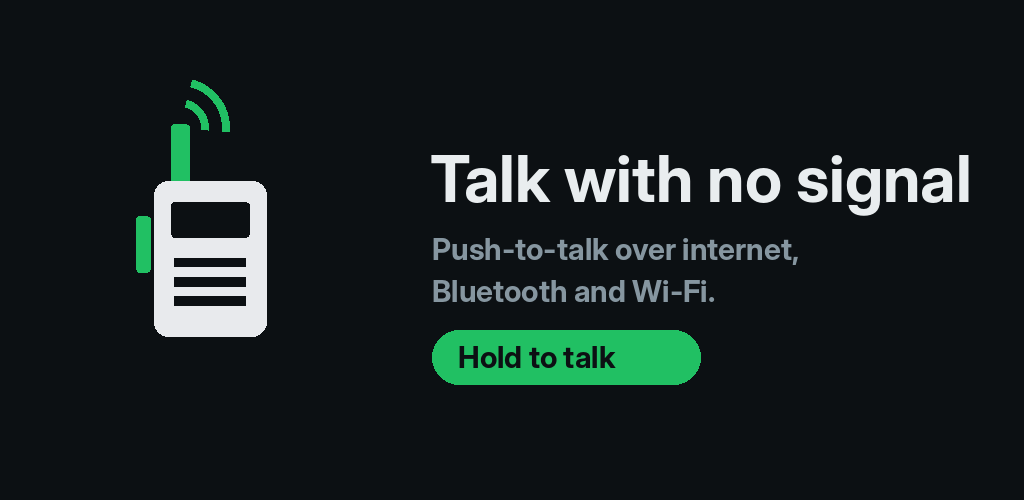
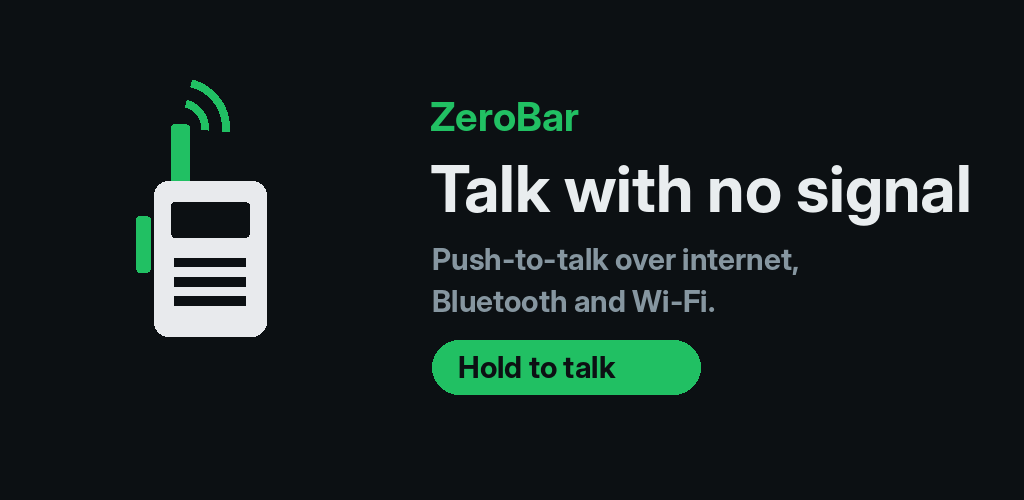
Rename the app to ZeroBar for the Play Store
App name, screens, notifications, widget, store listing, privacy policy
and feature graphic now say ZeroBar. Play Store ID app.zerobar.ptt.
Network identifiers are unchanged so it still talks to earlier builds.

Claude-Session: https://claude.ai/code/session_01KNVwiZceyAopGibWBzwb8z

diff --git a/walkie-talkie/app/src/main/java/app/pttradio/ui/Chats.kt b/walkie-talkie/app/src/main/java/app/pttradio/ui/Chats.kt
@@ -141,7 +141,7 @@ fun Home(
                 Text("New group", Modifier.clip(RoundedCornerShape(18.dp)).clickable { naming = true }.padding(horizontal = 10.dp, vertical = 8.dp), color = C.accent, fontSize = 15.sp, fontWeight = FontWeight.SemiBold)
             }
         } else Row(Modifier.fillMaxWidth().height(60.dp).padding(start = 18.dp, end = 4.dp), verticalAlignment = Alignment.CenterVertically) {
-            Text("PTT Radio", Modifier.weight(1f), color = C.text, fontSize = 24.sp, fontWeight = FontWeight.Bold)
+            Text("ZeroBar", Modifier.weight(1f), color = C.text, fontSize = 24.sp, fontWeight = FontWeight.Bold)
             Text("SOS", Modifier.clip(RoundedCornerShape(16.dp)).background(if (sending != null) C.red else Color(0x26FF4B3E)).clickable { sosMenu = true }
                 .padding(horizontal = 12.dp, vertical = 6.dp), color = if (sending != null) Color.White else C.red, fontSize = 13.sp, fontWeight = FontWeight.Bold)
             Spacer(Modifier.width(10.dp))
@@ -227,7 +227,7 @@ fun Home(
 
     // ---------------------------------------------------------------- sheets
     if (sosMenu) Sheet("Emergency message", { sosMenu = false }) {
-        Body("Sent over Bluetooth to phones with PTT Radio in range, with no connection needed, and passed on by those phones. " +
+        Body("Sent over Bluetooth to phones with ZeroBar in range, with no connection needed, and passed on by those phones. " +
             "Shown to your contacts only, unless you allow anyone in Settings. Your GPS position is included. With internet it also goes to your groups.",
             color = C.dim, size = 13.sp)
         Column(Modifier.heightIn(max = 380.dp).verticalScroll(rememberScrollState()), verticalArrangement = Arrangement.spacedBy(8.dp)) {
@@ -240,7 +240,7 @@ fun Home(
             Spacer(Modifier.width(14.dp))
             Body("New group", weight = FontWeight.SemiBold)
         }
-        Label("On PTT Radio now", Modifier.padding(top = 4.dp))
+        Label("On ZeroBar now", Modifier.padding(top = 4.dp))
         val people = onAppNow(s, now)
         if (people.isEmpty()) Body("Nobody else is on the app right now.", color = C.dim, size = 13.sp)
         Column(Modifier.heightIn(max = 340.dp).verticalScroll(rememberScrollState())) {
@@ -420,7 +420,7 @@ private fun ChatList(
             }
         }
         if (people.isNotEmpty()) {
-            item { Text("On PTT Radio now", Modifier.padding(start = 18.dp, top = 14.dp, bottom = 4.dp), color = C.dim, fontSize = 13.sp, fontWeight = FontWeight.Medium) }
+            item { Text("On ZeroBar now", Modifier.padding(start = 18.dp, top = 14.dp, bottom = 4.dp), color = C.dim, fontSize = 13.sp, fontWeight = FontWeight.Medium) }
             items(people, key = { "p" + it.id }) { u -> PersonRow(u, s, near, now, u.id in sel, true, { onPerson(u) }, { onPersonLong(u) }) }
         }
         item { Spacer(Modifier.height(90.dp)) }
@@ -501,7 +501,7 @@ fun ChatPicker(s: RadioState, near: NearbyInfo, now: Long, onChat: (Group) -> Un
         }
         val people = onAppNow(s, now).filter { it.id !in withChat }
         if (people.isNotEmpty()) {
-            item { Text("On PTT Radio now", Modifier.padding(start = 18.dp, top = 14.dp, bottom = 4.dp), color = C.dim, fontSize = 13.sp) }
+            item { Text("On ZeroBar now", Modifier.padding(start = 18.dp, top = 14.dp, bottom = 4.dp), color = C.dim, fontSize = 13.sp) }
             items(people, key = { "p" + it.id }) { u -> PersonRow(u, s, near, now, false, false, { onPerson(u) }, {}) }
         }
     }

diff --git a/walkie-talkie/app/src/main/java/app/pttradio/ui/Screens.kt b/walkie-talkie/app/src/main/java/app/pttradio/ui/Screens.kt
@@ -146,7 +146,7 @@ fun Welcome(a: Actions, login: Boolean) {
     var error by remember { mutableStateOf<String?>(null) }
     val emailOk = Regex("^[^@\\s]+@[^@\\s]+\\.[^@\\s]{2,}$").matches(email.trim())
     Column(Modifier.fillMaxSize().verticalScroll(rememberScrollState()).padding(28.dp), verticalArrangement = Arrangement.Center) {
-        Text("Welcome to PTT Radio", color = C.text, fontSize = 26.sp, fontWeight = FontWeight.Bold)
+        Text("Welcome to ZeroBar", color = C.text, fontSize = 26.sp, fontWeight = FontWeight.Bold)
         Spacer(Modifier.height(8.dp))
         Body("Hold to talk with your people, over internet or straight phone-to-phone when there is none.", color = C.dim)
         Spacer(Modifier.height(28.dp))
@@ -274,7 +274,7 @@ fun SettingsScreen(s: RadioState, p: Perms, mode: String, server: String, btn: B
                         Btn("Change") { a.learnKey() }
                     }
                 }
-                Body("Hold the button to talk, release to mute, while PTT Radio is open on screen. Android does not let any app take over the power button; volume keys and programmable side keys work.", color = C.dim, size = 12.sp)
+                Body("Hold the button to talk, release to mute, while ZeroBar is open on screen. Android does not let any app take over the power button; volume keys and programmable side keys work.", color = C.dim, size = 12.sp)
                 if (btn.key != 0) {
                     Label("Button talks on", Modifier.padding(top = 6.dp))
                     Column(Modifier.fillMaxWidth().clip(RoundedCornerShape(6.dp)).border(1.dp, C.line, RoundedCornerShape(6.dp)).background(C.panel)) {
@@ -316,7 +316,7 @@ fun SettingsScreen(s: RadioState, p: Perms, mode: String, server: String, btn: B
             }
             Section("Emergency (SOS) messages are shown to") {
                 Segments(listOf("c" to "My contacts", "a" to "Anyone nearby"), if (sosAnyone) "a" else "c", Modifier.fillMaxWidth()) { a.setSosAnyone(it == "a") }
-                Body(if (sosAnyone) "Every phone with PTT Radio in range shows your alert, including strangers who could help."
+                Body(if (sosAnyone) "Every phone with ZeroBar in range shows your alert, including strangers who could help."
                      else "Only people in your groups and chats see your alert. Other phones with the app still pass it on, without showing it, so it can reach a contact further away.",
                     color = C.dim, size = 12.sp)
             }

diff --git a/walkie-talkie/app/src/main/java/app/pttradio/ui/QuickTalk.kt b/walkie-talkie/app/src/main/java/app/pttradio/ui/QuickTalk.kt
@@ -181,7 +181,7 @@ class QuickTalkActivity : ComponentActivity() {
                         }
                         Dot(col); Spacer(Modifier.width(8.dp)); Label(text, color = C.text, size = 11.sp)
                     }
-                    if (g == null) Btn("Open PTT Radio", Modifier.fillMaxWidth(), primary = true) { startActivity(Intent(this@QuickTalkActivity, MainActivity::class.java)); finish() }
+                    if (g == null) Btn("Open ZeroBar", Modifier.fillMaxWidth(), primary = true) { startActivity(Intent(this@QuickTalkActivity, MainActivity::class.java)); finish() }
                     else PttKey(
                         s.transmitting, s.talker != null, Modifier.fillMaxWidth(), app.core.level, s.recording,
                         title = when { closing -> "MIC\nCLOSED"; s.recording -> "RECORDING"; s.transmitting -> "TALKING"; s.talker != null -> "LISTENING"; else -> "TAP\nTO TALK" },
@@ -255,7 +255,7 @@ class WidgetConfigActivity : ComponentActivity() {
                 Text("Widget for which chat?", Modifier.padding(start = 18.dp, top = 18.dp, bottom = 4.dp), color = C.text, fontSize = 20.sp, fontWeight = FontWeight.Bold)
                 Text("Tapping the widget starts talking to this group or person.", Modifier.padding(start = 18.dp, bottom = 10.dp), color = C.dim, fontSize = 13.sp)
                 if (s.groups.isEmpty() && onAppNow(s, now).isEmpty())
-                    Text("No chats yet. Open PTT Radio, start a chat, then add the widget again.", Modifier.padding(18.dp), color = C.dim, fontSize = 14.sp)
+                    Text("No chats yet. Open ZeroBar, start a chat, then add the widget again.", Modifier.padding(18.dp), color = C.dim, fontSize = 14.sp)
                 ChatPicker(s, near, now,
                     onChat = { g -> PttWidget.assign(this@WidgetConfigActivity, id, g.id); done(id) },
                     onPerson = { u -> app.core.openDirect(u.id, tune = false) { gid -> runOnUiThread { PttWidget.assign(this@WidgetConfigActivity, id, gid); done(id) } } })

diff --git a/walkie-talkie/app/src/main/java/app/pttradio/ui/MainActivity.kt b/walkie-talkie/app/src/main/java/app/pttradio/ui/MainActivity.kt
@@ -231,7 +231,7 @@ class MainActivity : ComponentActivity(), Actions {
 
     override fun addToHome(gid: String) {
         val ok = try { PttWidget.pin(this, gid) } catch (e: Exception) { false }
-        if (!ok) warning = "This home screen does not let apps place widgets. Long-press the home screen, choose Widgets, and add PTT Radio from there."
+        if (!ok) warning = "This home screen does not let apps place widgets. Long-press the home screen, choose Widgets, and add ZeroBar from there."
     }
 
     override fun sendSos(code: Int) {
@@ -262,7 +262,7 @@ class MainActivity : ComponentActivity(), Actions {
                 startActivity(Intent(Settings.ACTION_WIFI_ADD_NETWORKS).putParcelableArrayListExtra(Settings.EXTRA_WIFI_NETWORK_LIST, arrayListOf(sug)))
             } else {
                 getSystemService(android.net.wifi.WifiManager::class.java).addNetworkSuggestions(listOf(sug))
-                info = "Saved. Android may show a notification asking to allow networks suggested by PTT Radio: allow it."
+                info = "Saved. Android may show a notification asking to allow networks suggested by ZeroBar: allow it."
             }
         } catch (e: Exception) {
             info = "This phone could not save the network automatically. Open Wi-Fi settings and add \"$ssid\" with the password by hand."

diff --git a/walkie-talkie/app/src/main/java/app/pttradio/App.kt b/walkie-talkie/app/src/main/java/app/pttradio/App.kt
@@ -247,7 +247,7 @@ object Notifier {
     }
 
     fun standby(c: Context, text: String, gid: String? = null): Notification = Notification.Builder(c, STANDBY)
-        .setSmallIcon(R.drawable.ic_stat_radio).setContentTitle("PTT Radio").setContentText(text)
+        .setSmallIcon(R.drawable.ic_stat_radio).setContentTitle("ZeroBar").setContentText(text)
         .setOngoing(true).setOnlyAlertOnce(true).setContentIntent(open(c, 0))
         .apply { if (gid != null) addAction(talkAction(c, 2, gid, "Talk")) }.build()
 

diff --git a/walkie-talkie/app/src/main/java/app/pttradio/net/Sos.kt b/walkie-talkie/app/src/main/java/app/pttradio/net/Sos.kt
@@ -40,7 +40,7 @@ object SosCodes {
         "Stay where you are",
         "Follow me, moving on",
         "Low battery",
-        "Open PTT Radio, let's connect",
+        "Open ZeroBar, let's connect",
     )
     fun of(code: Int) = text.getOrElse(code) { "Alert" }
 }

diff --git a/walkie-talkie/play/README.md b/walkie-talkie/play/README.md
@@ -1,4 +1,4 @@
-# Publishing to Google Play (internal testing)
+# Publishing ZeroBar to Google Play (internal testing)
 
 Everything Play Console asks for, ready to paste. Files in this folder:
 
@@ -14,8 +14,8 @@ Everything Play Console asks for, ready to paste. Files in this folder:
 1. Create a developer account at <https://play.google.com/console/signup> (one-time fee of US $25, identity check).
 2. **Create app** → name, default language, *App*, *Free* → accept the declarations.
 
-The package name inside the bundle is `app.pttradio`. It becomes permanent with the first upload; the name shown in
-the store can be changed at any time.
+App name: **ZeroBar**. The package name inside the bundle is `app.zerobar.ptt`. It becomes permanent with the first
+upload; the name shown in the store can be changed at any time. Developer contact e-mail: ugoyel@gmail.com.
 
 ## 2. Internal testing (no review wait, up to 100 testers)
 
@@ -30,8 +30,8 @@ Personal developer accounts created after November 2023 must also run a closed t
 
 ## 3. App content (Policy → App content)
 
-- **Privacy policy:** put `privacy-policy.md` on a public page (Google Sites, GitHub Pages, your website), fill in
-  the contact e-mail, and paste the URL.
+- **Privacy policy:** put `privacy-policy.md` on a public page (Google Sites, GitHub Pages, your website) and paste
+  the URL.
 - **Ads:** No ads.
 - **App access:** All functionality is available without special access (no login).
 - **Content rating:** questionnaire → Communication app; users can interact and share location → typically rated
@@ -54,6 +54,10 @@ Personal developer accounts created after November 2023 must also run a closed t
   without it Android delays or drops incoming calls.
 
 ## 4. Store listing (Grow → Store presence → Main store listing)
+
+**App name (≤ 30 characters)**
+
+> ZeroBar: Offline Walkie Talkie
 
 **Short description (≤ 80 characters)**
 

diff --git a/walkie-talkie/README.md b/walkie-talkie/README.md
@@ -1,4 +1,4 @@
-# PTT Radio
+# ZeroBar
 
 A push-to-talk walkie-talkie for Android. Audio only, no calls, nothing recorded.
 
@@ -47,7 +47,7 @@ cd walkie-talkie
 ./gradlew :app:assembleRelease     # app/build/outputs/apk/release/app-release.apk
 ```
 
-Every push that touches this folder also builds the APK in GitHub Actions (workflow **PTT Radio APK**, artifact
+Every push that touches this folder also builds the APK in GitHub Actions (workflow **ZeroBar APK**, artifact
 `ptt-radio-apk`). Builds are signed with the fixed key in
 `app/sideload.keystore`, so a newer APK installs over an older one. (APKs built before that key existed must be
 uninstalled once.)

diff --git a/walkie-talkie/play/privacy-policy.md b/walkie-talkie/play/privacy-policy.md
@@ -1,8 +1,8 @@
-# Privacy Policy
+# ZeroBar Privacy Policy
 
 _Last updated: 16 November 2026_
 
-This policy explains what the app ("the app", "we") does with information when you use it. The app is a
+This policy explains what ZeroBar ("the app", "we") does with information when you use it. The app is a
 push-to-talk voice and messaging tool that works over the internet and directly between nearby phones.
 
 ## What stays on your phone
@@ -64,4 +64,4 @@ The app is not directed at children under 13.
 
 ## Contact
 
-Questions or requests: **[your contact e-mail]**
+Questions or requests: **ugoyel@gmail.com**
